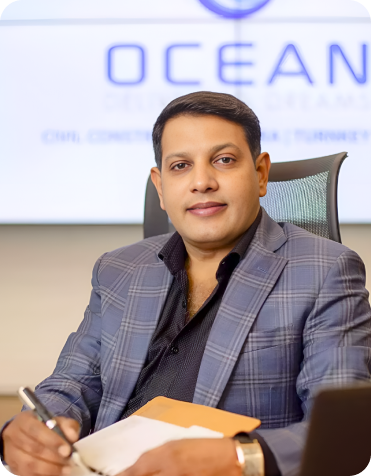
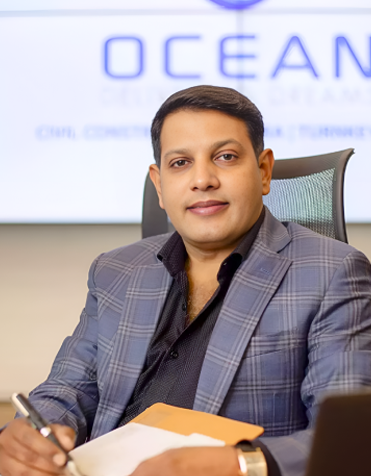
fixed the two errors

diff --git a/src/app/contact/contact.module.css b/src/app/contact/contact.module.css
@@ -39,7 +39,7 @@
   align-items: center;
 }
 .columnContact img {
-  width: clamp(50px, 4vw, 4vw);
+  width: clamp(35px, 3.8vw, 3.8vw);
   height: auto;
 }
 .columnContact .content {

diff --git a/src/components/Leadership.module.css b/src/components/Leadership.module.css
@@ -37,6 +37,7 @@
   width: 100%;
   height: auto;
   object-fit: cover;
+  border-radius: 10px;
 }
 .columnLeadership {
   display: flex;
